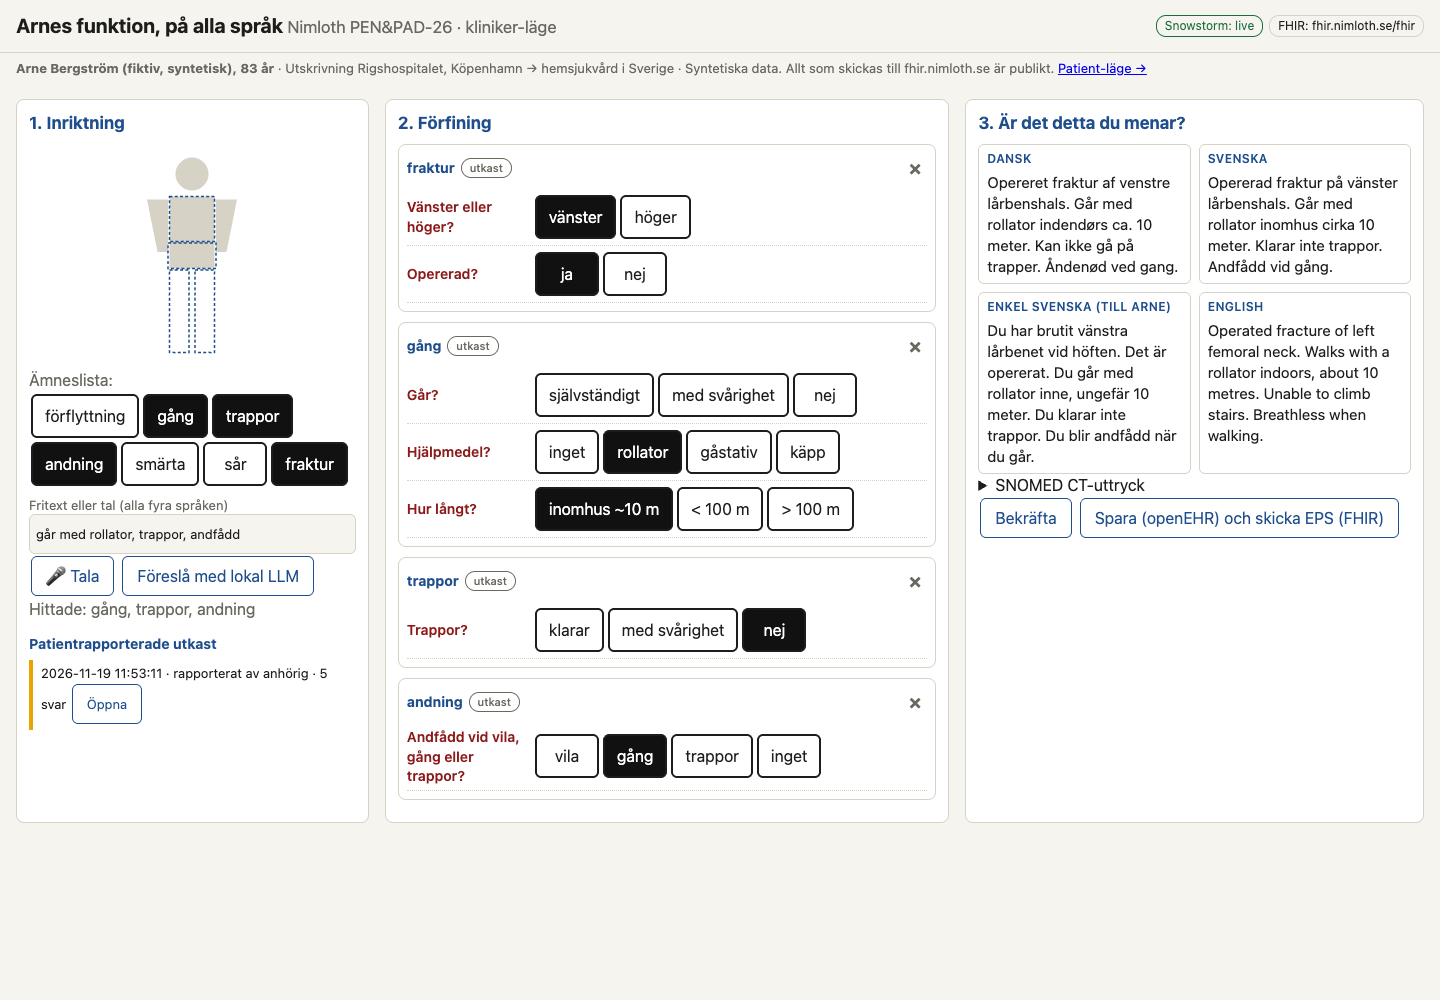
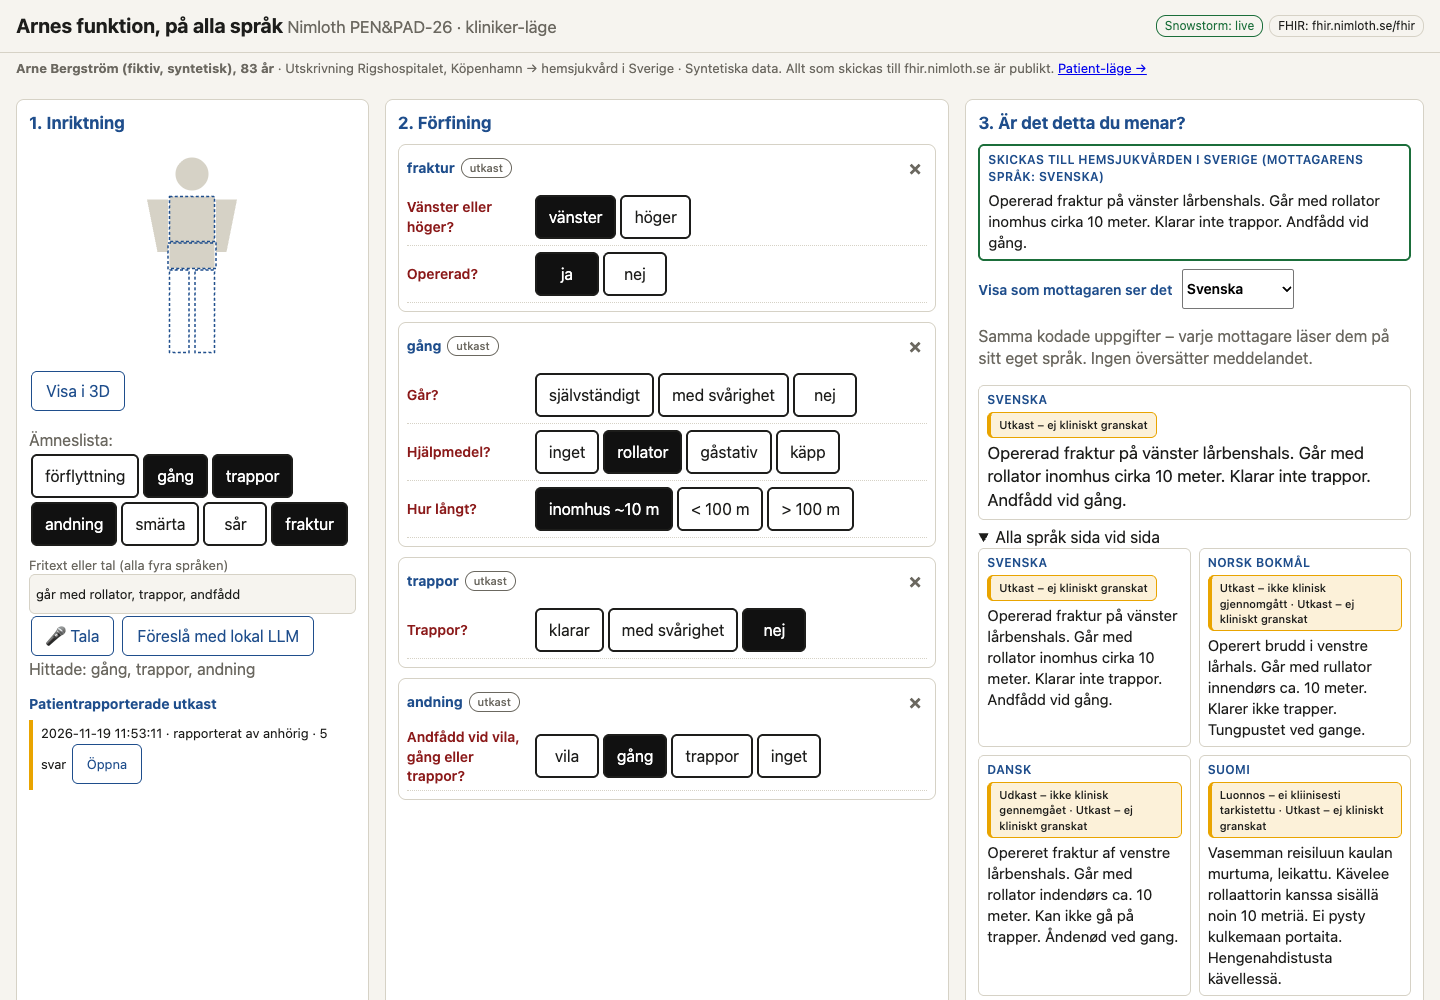
Nimloth PEN&PAD-26: send codes, render locally (six languages, review status), screenshots

Changed region(s): [[0.6562, 0.155, 1.0, 1.0], [0.0, 0.372, 0.25, 0.775], [0.6875, 0.992, 0.8125, 1.0]]

diff --git a/challenge/nimloth-penpad26/readme.md b/challenge/nimloth-penpad26/readme.md
@@ -13,10 +13,17 @@ We used the same coded record for both sides of the border:
 
 ## Three things worth looking at
 1. **The track's three steps in both modes**: orientation, refinement and confirmation.
-2. **The sentence generator removes the need for an interpreting son.** One coded entry is rendered deterministically in **Danish, Swedish, plain Swedish (for Arne) and English** side by side. The templates are hand-written and visible (`generator/templates/{da,sv,sv-enkel,en}.yaml`). No LLM generates text. A concept without a template is shown as SNOMED term + code + "no translation"; it never fails silently.
+2. **The sentence generator removes the need for an interpreting son.** One coded entry is rendered deterministically in **Swedish, Norwegian (bokmål), Danish, Finnish, German and English**, plus plain Swedish for Arne. The templates are hand-written and visible (`generator/templates/{sv,sv-enkel,nb,da,fi,de,en}.yaml`). No LLM generates text. A concept without a template is shown as SNOMED term + code + "no translation"; it never fails silently.
    - sv: *Opererad fraktur på vänster lårbenshals. Går med rollator inomhus cirka 10 meter. Klarar inte trappor. Andfådd vid gång.*
    - da: *Opereret fraktur af venstre lårbenshals. Går med rollator indendørs ca. 10 meter. Kan ikke gå på trapper. Åndenød ved gang.*
 3. **Functional status lands in an EPS document, with the validation result.** The functional-status findings become `Condition`s in the EPS section *Functional status* (LOINC 47420-5, read from `composition-eu-eps` 1.0.0-ballot, which allows Condition / ClinicalImpression / DocumentReference there). They are added to a copy of the hackathon's Arne EPS bundle; the original is never overwritten. The copy is published as [`Bundle/24785`](https://fhir.nimloth.se/fhir/Bundle/24785) (identifier `nimloth-eps-arne-penpad`) and validates against `bundle-eu-eps` 1.0.0-ballot (matchbox) with **0 errors** (the original fixture has 0 errors / 118 warnings; ours 127, the extra ones are an unavailable eHDSI value set). A **receipt button** ("Mottaget och läst") writes a FHIR `Task` with status *completed* ([`Task/24786`](https://fhir.nimloth.se/fhir/Task/24786), focus `Bundle/24785`): a sent document is not a confirmed hand-over.
+
+## Send codes, render locally
+Sending and viewing are two different things. What goes to Swedish home care is the **coded record** (openEHR composition, FHIR resources, the receipt) plus one narrative in the **receiver's** language, Swedish. The receiver decides the language; nobody picks it from a menu. The drop-down **"Visa som mottagaren ser det"** only shows the same coded record rendered in another language, so a Danish, Norwegian, Finnish or German reader sees what *they* would read. Switching it sends nothing and changes nothing (tested: `test/i18n.mjs`). Nobody translates the message; each receiver reads the codes in their own language.
+
+Finnish needs case endings that depend on the body part ("vasemmassa lonkassa", "vasemman reisiluun"), so the Finnish fracture, pain and wound templates are whole sentences per side instead of slots. German avoids the problem by putting the side last, as clinical shorthand does ("Schenkelhalsfraktur links"). All 158 answer combinations of the scenario have a template in every language; a missing one would show SNOMED term + code + "no translation", never silently.
+
+**Native speakers of Norwegian, Danish, Finnish or German: corrections to `generator/templates/` are very welcome as pull requests.**
 
 ## Rector's recipe, applied
 | Rector (interviews part 2 and 4) | What we built for Arne |
@@ -25,7 +32,7 @@ We used the same coded record for both sides of the border:
 | The concept model *sanctions*: query it, don't invent concepts | Every option is checked at runtime: ECL membership, or the MRCM attribute range (laterality, severity). Unsanctioned options are dropped, or shown dotted when Snowstorm is down |
 | Assemble forms from fragments hung on the concept model | `model/arne-scenario.json` holds the fragments (topics, questions, candidate codes); no form rows are hard-coded in the UI |
 | Big toggle buttons, a visible "more", no death by a thousand clicks | Big toggles, at most three short questions per topic, one click to undo |
-| "Is this what you meant?": show back a processed result, easy to correct | Live four-language sentence and SNOMED CT expression on every click; optional local LLM (on our own box, never the cloud) may only pick among offered values (JSON schema) and its picks are marked until the clinician accepts them |
+| "Is this what you meant?": show back a processed result, easy to correct | Live sentence (six languages + plain Swedish) and SNOMED CT expression on every click; optional local LLM (on our own box, never the cloud) may only pick among offered values (JSON schema) and its picks are marked until the clinician accepts them |
 | Different language for clinicians and patients | `sv` vs `sv-enkel` from the same record; patient mode in plain Swedish |
 | Be tolerant of broken parts | Snowstorm down → offline snapshot or unsanctioned + warning; EHRbase down → queued in the browser, "ej sparad"; FHIR down → resource shown, "ej skickad". Tested by pointing each at a wrong URL |
 | Show that options exist; let the user turn away at any time | Patient points on a 3D body (BodyParts3D meshes); a hand-written FMA→SNOMED table (`mapping/fma-to-snomed-arne.yaml`, codes confirmed in Snowstorm, laterality as its own field) turns the tap into a site; unknown meshes resolve to the nearest listed region or "unknown place – choose in the list", never a guessed code |
@@ -36,7 +43,7 @@ TODO(Anders): keep the actor-test section from the v0.1 draft (Rector, part 2: w
 
 ## Honest limitations
 - FMA→SNOMED is a hand-written table for this one scenario (hip, thigh, lower leg, foot, chest, lumbar back), not a general mapping. 3D is deliberately the default only in patient mode (see the actor test and Rector's "exhaustive is the enemy of the useful").
-- Danish and plain Swedish are hand-written templates for this one scenario, not a general translator.
+- All language templates are hand-written for this one scenario and marked `review_status: draft_unreviewed`; the view shows "Utkast – ej kliniskt granskat" (translated, with the Swedish text next to it). None has been reviewed by a native speaker yet. They are not a general translator.
 - Danish SNOMED CT terms are not loaded in our Snowstorm (only the international and Swedish editions), so the Danish text comes from our templates only.
 - Proxy consent for relatives is not solved; we only show provenance.
 - openEHR uses a small template generated for the demo (`nimloth_penpad26_symptom.v0`: encounter → story → symptom_sign + anatomical_location, plus exam), pruned from CKM archetypes; a validated functional-status template (e.g. Barthel) would be better.
@@ -53,7 +60,7 @@ To the PEN&PAD revival team for the [Clinergy extractor and notes](https://pen-p
 | | |
 |---|---|
 | ![Orientation](01-inriktning.png) Orientation: body map + topic list | ![Refinement](02-forfining.png) Refinement as short questions |
-| ![Four languages](03-fyra-sprak.png) One record, four languages | ![EPS validation](04-eps-validering.png) openEHR saved, EPS validated |
+| ![Six languages](03-sex-sprak.png) Sent in Swedish; the same record viewed in six languages, review status visible | ![EPS validation](04-eps-validering.png) openEHR saved, EPS validated |
 | ![Receipt](06-kvittens.png) Published EPS + "Mottaget och läst" receipt | |
 | ![Clinician 3D](08-kliniker-3d.png) Optional 3D in clinician mode: left hip → pain card, side pre-filled | |
 | ![Patient mode](05-patient-lage.png) Patient mode (relative answering) | ![3D body](07-patient-3d-hoft.png) Arne points at his left hip in 3D → "Du har ont i vänstra höften." / "Smerter i venstre hofte." |
